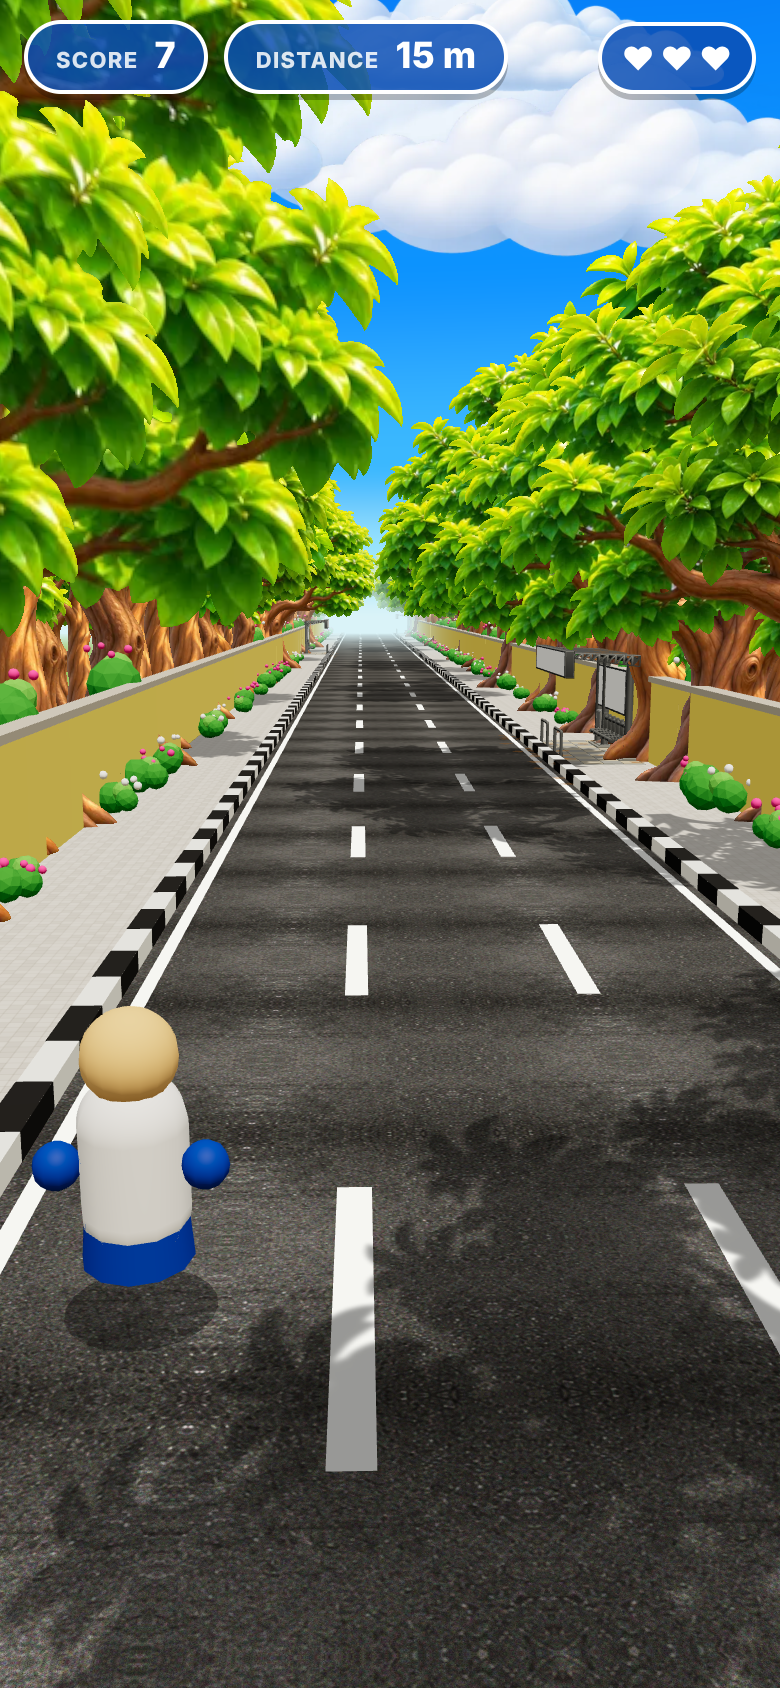
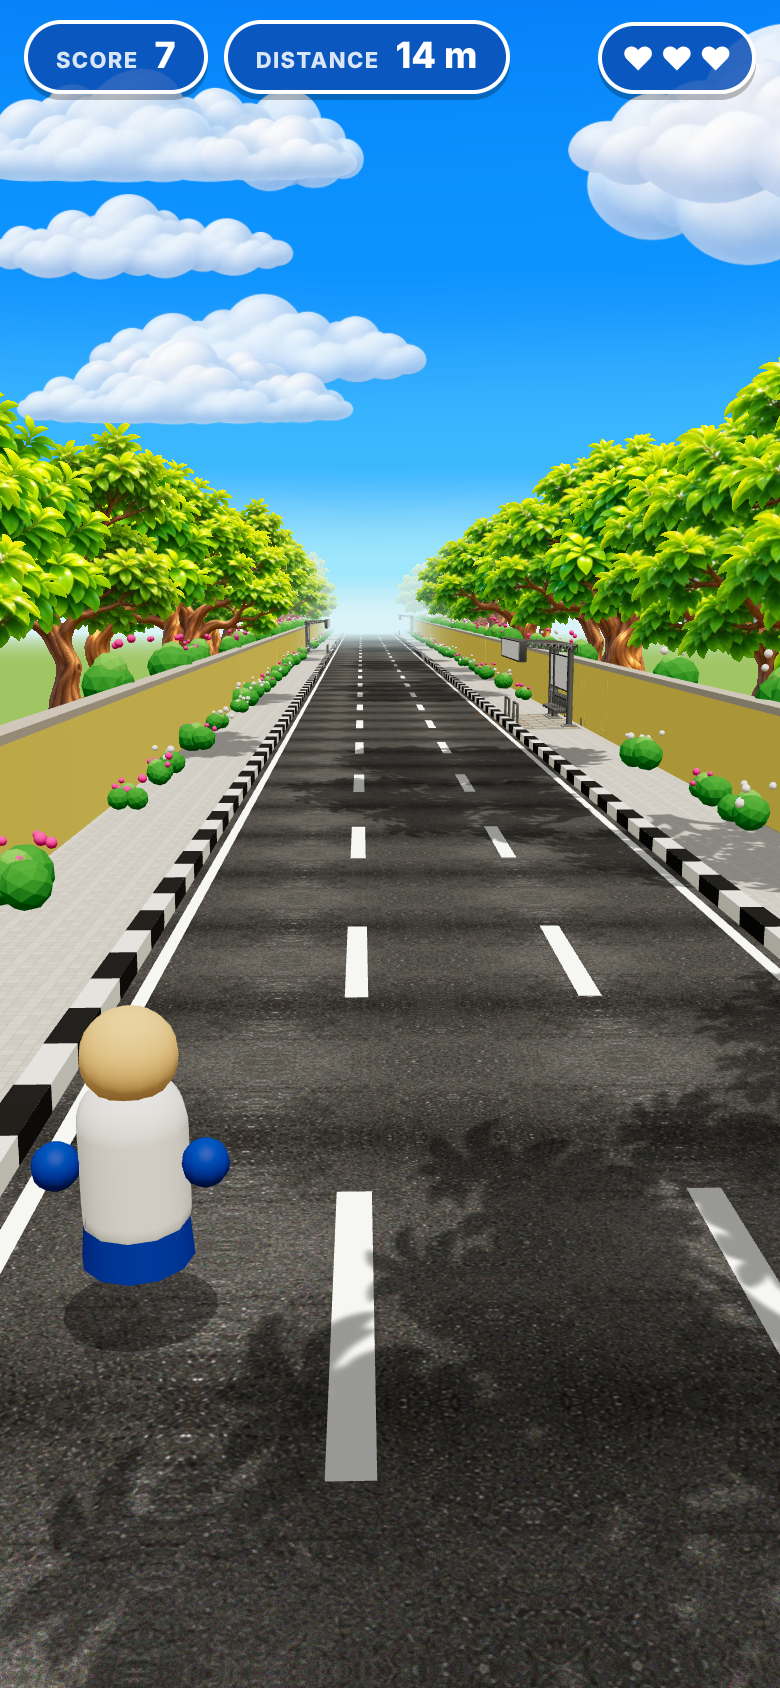
World: single spaced tree row set back behind the wall (trunks hidden)
Claude-Session: https://claude.ai/code/session_015MHPvXtKwbps1DwJmjDf5T

diff --git a/public/js/world.js b/public/js/world.js
@@ -8,7 +8,7 @@ import { pavingTexture } from './textures.js';
 
 const SHRUBS_PER_CHUNK = 26;
 const FLOWERS_PER_SHRUB = 5;
-const TREES_PER_CHUNK = 56;   // 28 per side: a near row + a far row, overlapping canopies
+const TREES_PER_CHUNK = 16;   // 8 per side, one row set back behind the wall
 const HEDGE_PER_CHUNK = 24;
 
 /**
@@ -252,21 +252,20 @@ export class World {
     const shelterSide = side === 'left' ? -1 : 1;
 
     // Trees: a dense row just behind the wall on both sides, alternating left/right.
+    // One row per side, set back 3–5 m behind the wall so the trunk is hidden
+    // and only the canopy rises above it (as in the reference art). Spacing
+    // roughly one canopy width, so neighbours just touch.
     trees.forEach((tree, i) => {
       const kind = this.treeMaterials[Math.floor(rng() * this.treeMaterials.length)];
       const s = i % 2 === 0 ? -1 : 1;
-      const perSide = TREES_PER_CHUNK / 2;
-      const j = Math.floor(i / 2);                        // 0..perSide-1
-      const nearRow = j < perSide / 2;                    // first half near, second half far
-      const slots = perSide / 2;                          // slots per row
-      const slot = nearRow ? j : j - slots;
-      const z = -CHUNK_LENGTH / 2 + (slot + (nearRow ? 0.15 : 0.6) + rng() * 0.4) * (CHUNK_LENGTH / slots);
-      const height = nearRow ? 11 + rng() * 4 : 9 + rng() * 4;
-      const x = s * (WALL.outer + (nearRow ? 0.4 + rng() * 1.2 : 3.5 + rng() * 3));
+      const slot = Math.floor(i / 2);                     // 8 slots per side
+      const z = -CHUNK_LENGTH / 2 + (slot + 0.25 + rng() * 0.5) * (CHUNK_LENGTH / 8);
+      const height = 9 + rng() * 3;                       // 9–12 m
+      const x = s * (WALL.outer + 3 + rng() * 2);
       tree.userData.front.material = kind.material;
       tree.scale.set(height * kind.aspect, height, 1);
       tree.position.set(x, -0.05, z);
-      tree.visible = true;
+      tree.visible = rng() < 0.9;
     });
 
     // Shrubs hug the wall; leave the shelter's platform clear.
